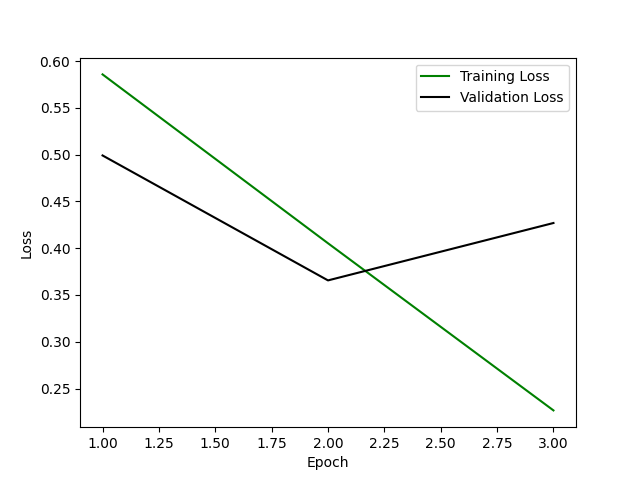
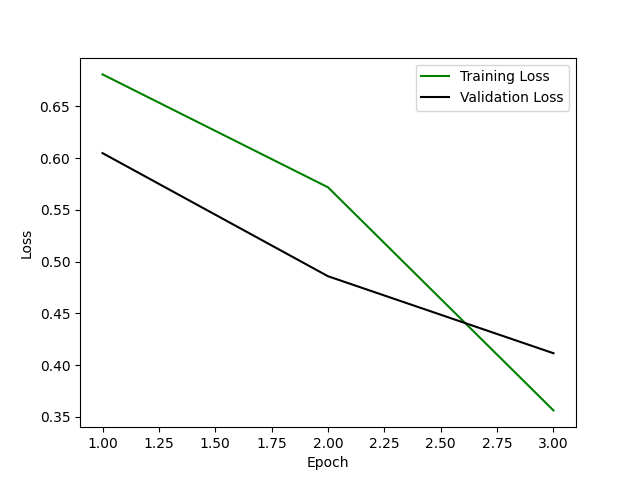
paper b: reclassifying dataset 2 with rules

diff --git a/paper_b_99_dl_bert_train.py b/paper_b_99_dl_bert_train.py
@@ -33,7 +33,7 @@ BATCH_SIZE = 16  # 16, 32
 NUM_EPOCHS = 3  # 2, 3, 4, 5
 WEIGHT_DECAY = 1e-3  # 1e-2 or 1e-3
 DROP_OUT_RATE = 0.1  # 0.1 or 0.2
-WARMUP_STEPS = 500  # 0, 100, 1000, 10000
+WARMUP_STEPS = 350  # 0, 100, 1000, 10000
 
 
 def get_device():
@@ -93,11 +93,10 @@ set_seed(SEED)
 dataset = load_jsonl_file(data_file)
 
 counter = Counter([item['label'] for item in dataset])
-print(counter)
 
 continue_class_counter = counter["continue"]
 not_continue_class_counter = counter["not_continue"]
-print("Class distribution:")
+print("\nClass distribution:")
 print(f"- continue: {continue_class_counter}")
 print(f"- not_continue: {not_continue_class_counter}")
 
@@ -105,11 +104,14 @@ random.shuffle(dataset)
 continue_class = [item for item in dataset if item['label'] == "continue"]
 not_continue_class = [item for item in dataset if item['label'] == "not_continue"]
 random.shuffle(not_continue_class)
-# trim 50% of not_continue_class
-not_continue_class = not_continue_class[:len(continue_class)]
-print(f"not_continue (after trim) : {len(not_continue_class)}")
+# trim 50% of continue_class
+continue_class = continue_class[:continue_class_counter // 2]
 
-# Load the BERT tokenizerb
+print(f"continue (after trim) : {len(continue_class)}")
+
+dataset = continue_class + not_continue_class
+
+# Load the BERT tokenizer
 tokenizer = BertTokenizer.from_pretrained("bert-base-uncased")
 
 sentences = [entry["text"] for entry in dataset]
@@ -333,7 +335,7 @@ plt.legend()
 plt.savefig("images/paper_b_1_dl_bert_model_losses.png")
 plt.close()
 
-""" BASELINE RESULTS
+""" ------------ December 12, 2023 BASELINE RESULTS -------------
 - Accuracy: 0.616
 - Precision: 0.616
 - Recall: 0.616
@@ -377,6 +379,56 @@ Hyperparameters:
 - Learning Rate: 2e-05
 - Batch Size: 16
 - Warmup Steps: 500
+- Number of Epochs: 3
+- Weight Decay: 0.001
+- Dropout Rate: 0.1
+---
+- Seed: 42
+
+------------- December 19, 2023 with all datapoints -------------
+- Accuracy: 0.860
+- Precision: 0.829
+- Recall: 0.804
+- F1 Score: 0.815
+- AUC-ROC: 0.918
+- Matthews Correlation Coefficient (MCC): 0.633
+- Confusion Matrix:
+              continue  not_continue
+continue           371            30
+not_continue        47           101
+
+continue: Precision = 0.83, Recall = 0.91, F1 = 0.87
+not_continue: Precision = 0.66, Recall = 0.50, F1 = 0.57
+
+Hyperparameters:
+- Learning Rate: 2e-05
+- Batch Size: 16
+- Warmup Steps: 500
+- Number of Epochs: 3
+- Weight Decay: 0.001
+- Dropout Rate: 0.1
+---
+- Seed: 42
+
+------------- December 19, 2023 with 50% continue class -------------
+- Accuracy: 0.862
+- Precision: 0.862
+- Recall: 0.856
+- F1 Score: 0.858
+- AUC-ROC: 0.916
+- Matthews Correlation Coefficient (MCC): 0.718
+- Confusion Matrix:
+              continue  not_continue
+continue           180            20
+not_continue        28           121
+
+continue: Precision = 0.81, Recall = 0.77, F1 = 0.79
+not_continue: Precision = 0.70, Recall = 0.76, F1 = 0.73
+
+Hyperparameters:
+- Learning Rate: 2e-05
+- Batch Size: 16
+- Warmup Steps: 400
 - Number of Epochs: 3
 - Weight Decay: 0.001
 - Dropout Rate: 0.1

diff --git a/paper_b_3_dl_upload_to_gsheets.py b/paper_b_3_dl_upload_to_gsheets.py
@@ -206,6 +206,6 @@ print(f"Uploaded {len(rows)} datapoints to Google Sheets")
 # - 294 duplicated
 #   ---
 #  7845 datapoints
-# -2324 malformed
+# -2360 malformed
 #   ---
 #  5485 datapoints
